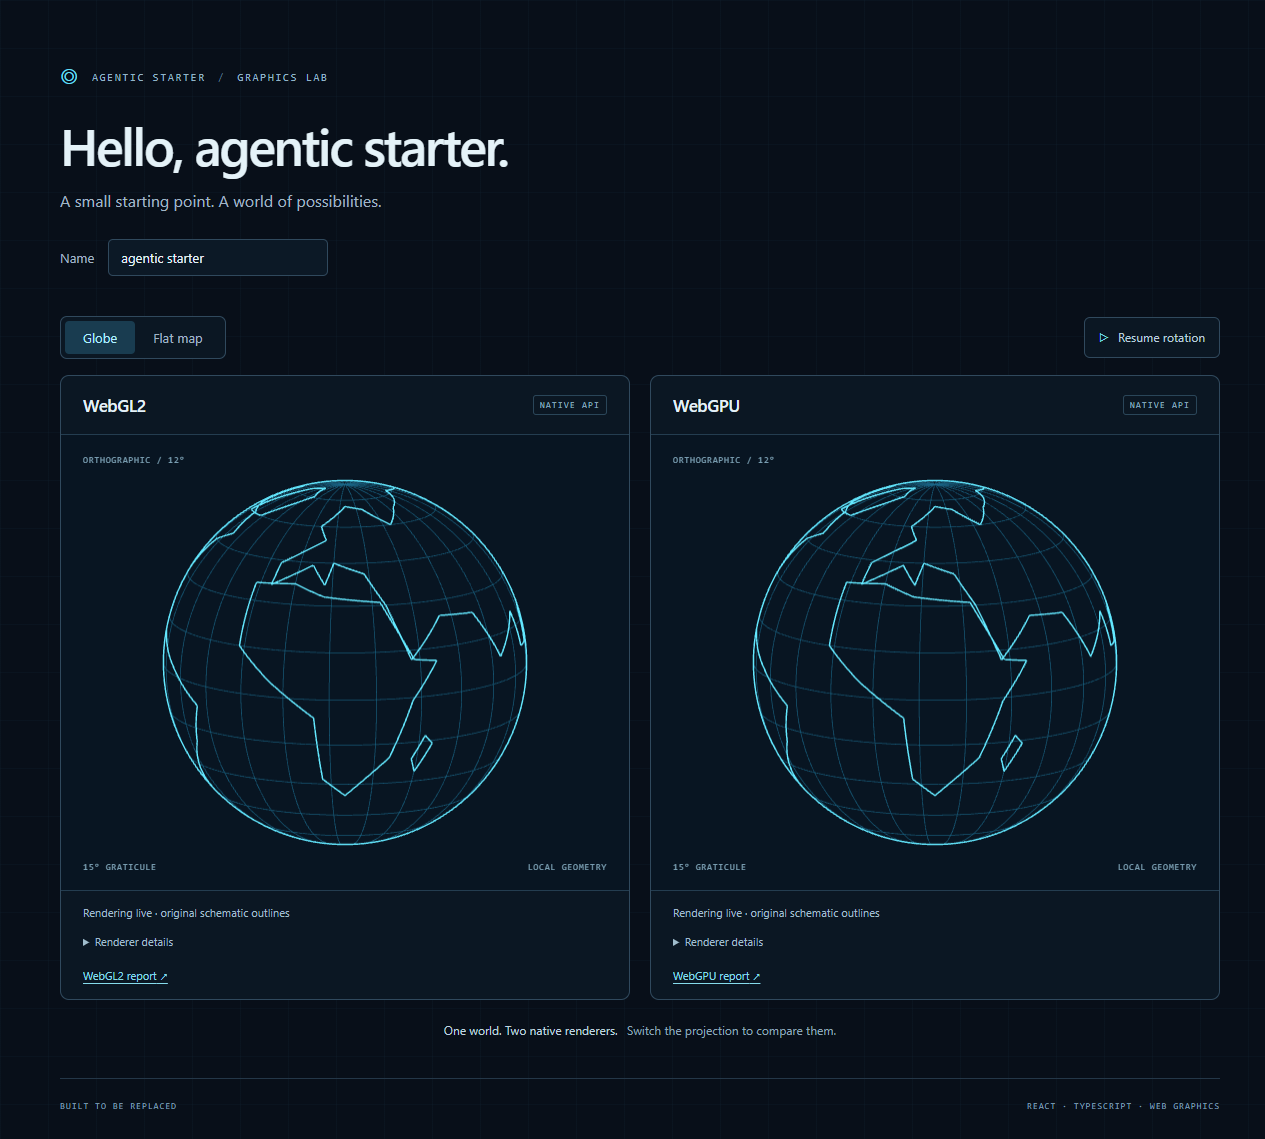
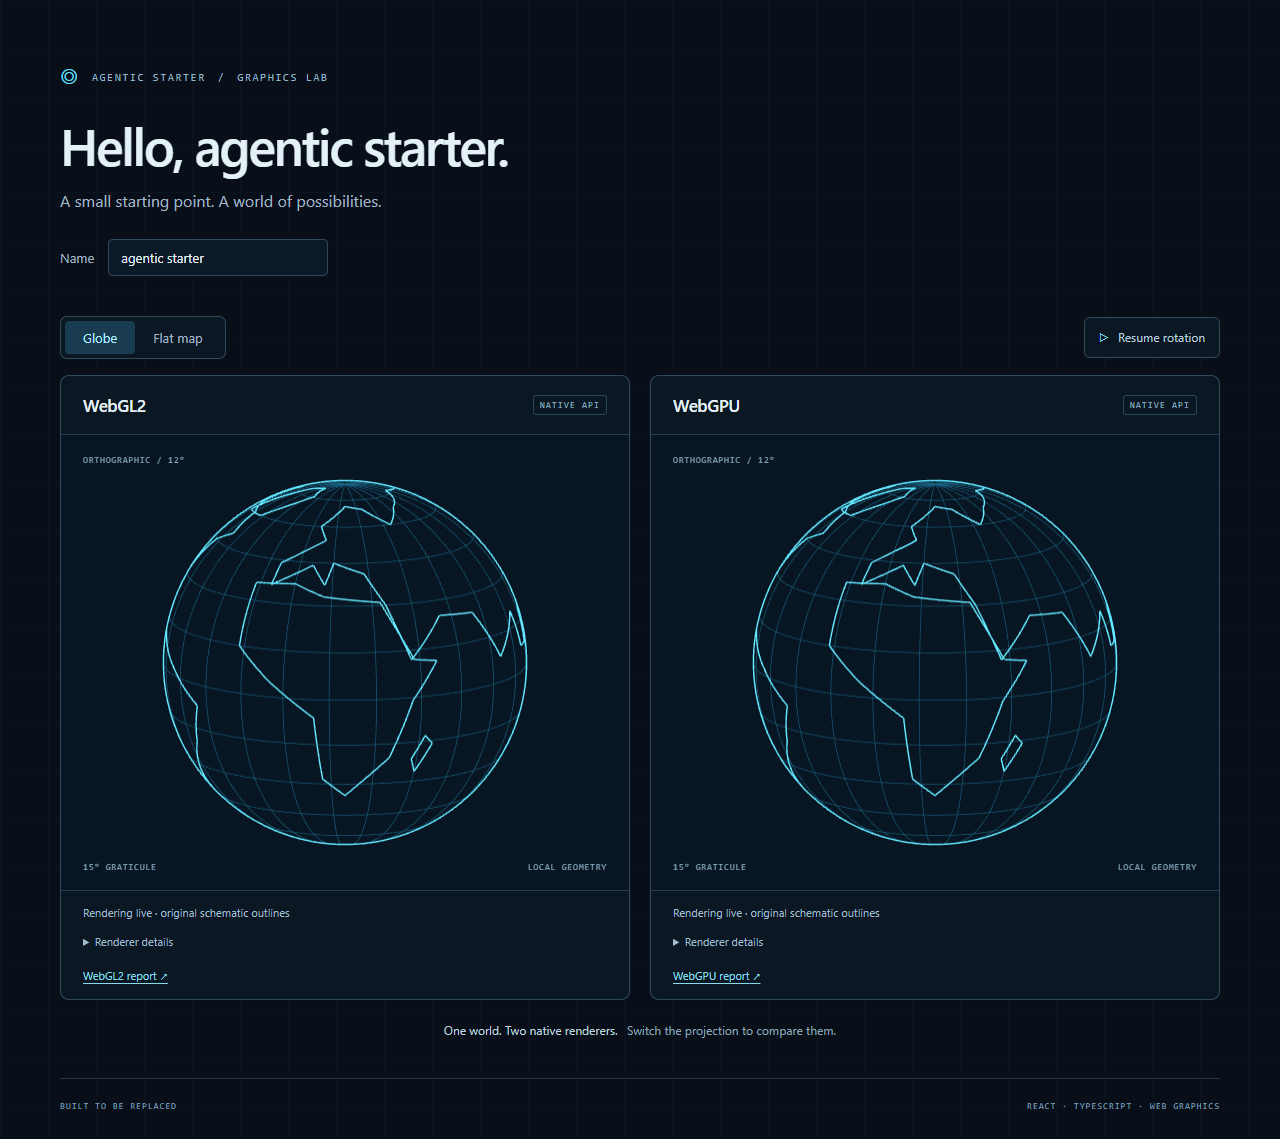
Regenerate native graphics capture with the tracked procedure

diff --git a/engineering/diagrams/README.md b/engineering/diagrams/README.md
@@ -63,6 +63,8 @@ With Python and Matplotlib 3.10.7 available in an optional environment, run `pyt
 
 [Capture metadata](starter-example.json) records revision, date, browser, host, viewport, API identities, native readback and painted-image counts, including whether the tree was dirty. The image shows the actual production preview with both APIs rendering; it is not a mockup. These are observations of that capture, not a performance or cross-browser guarantee. WSL/translated, native and software results must remain distinct.
 
+The current capture was generated on 2026-10-18 by the tracked script at `5427c69`, in a clean native Windows checkout driving Chrome 155.0.8059.82 against the matching production preview. Both application renderers identified NVIDIA hardware and passed native readback and compositor checks. The PNG and JSON are the script's unmodified outputs; no separate capture harness or alternate metadata schema is needed.
+
 On a host with both APIs available, install through `pnpm test:browser:install`, run `pnpm build` and start `pnpm preview --host 127.0.0.1 --port 4173 --strictPort`. In another terminal, run `node engineering/diagrams/capture-starter.mjs`. The [script](capture-starter.mjs) uses the existing GPU discovery/ownership lock, connects to its verified browser, pauses motion through the reduced-motion preference, asserts the greeting and both actual native/painted canvas outputs, then writes the PNG/metadata. It runs headless or on discovery's private display and releases its owned browser/lock in cleanup. It refuses a capture missing either rendered panel; use [GPU discovery](../agents/browser-gpu-discovery.md) to diagnose availability. Run natively on Windows for native Windows evidence; a Linux browser on WSL remains translated evidence. A separately driven native capture must retain equivalent checks and record its method and limits in the metadata. Stop the owned preview afterwards. Follow the [shared-machine rules](../agents/working-style.md#sharing-the-machine); a screenshot does not replace browser or accessibility tests.
 
 ## Review and maintenance

diff --git a/engineering/designs/blueprint-graphics-example.md b/engineering/designs/blueprint-graphics-example.md
@@ -26,4 +26,6 @@ Browser evidence must include both native canvas readback and compositor screens
 
 The blank-frame control disables native draw calls and must fail the same output assertions. Failure-path tests deny the API/adapter/device and lose the WebGL context. Interaction tests cover reduced motion, pause/resume, projection changes and narrow layout; the existing greeting and axe checks remain required. These checks establish expected nonblank output, not pixel-identical cartographic accuracy, comprehensive accessibility or performance.
 
+The 2026-10-18 axe diagnostic found no violations but marked some contrast checks incomplete over the decorative grid and canvases. A separate WCAG relative-luminance calculation against the grid's brightest intersection (both 20%-opacity lines over navy) gave a minimum 6.18:1 for the page text palette; the corrected divider exceeds 8:1 and is explicitly decorative. This supplements axe rather than establishing complete accessibility or non-text control contrast. The hidden-load regression was reproduced with the previous startup state, then passed after preserving the default rotation intent until first visibility.
+
 Hardware acceptance additionally requires recognized actual application renderer/adapter identities, no fallback/software adapter, and successful pixel/paint checks. A Windows browser is native Windows evidence; a Linux browser on WSL D3D12 is translated evidence. Software CI output and emulated viewport results are functional evidence only. Missing APIs and untested systems remain unverified. Follow [GPU discovery](../agents/browser-gpu-discovery.md) and [browser testing](../agents/browser-testing.md), including the shared ownership lock and exact-process cleanup. The [capture guide](../diagrams/README.md#actual-ui-capture) records a specific screenshot separately from these acceptance claims.
